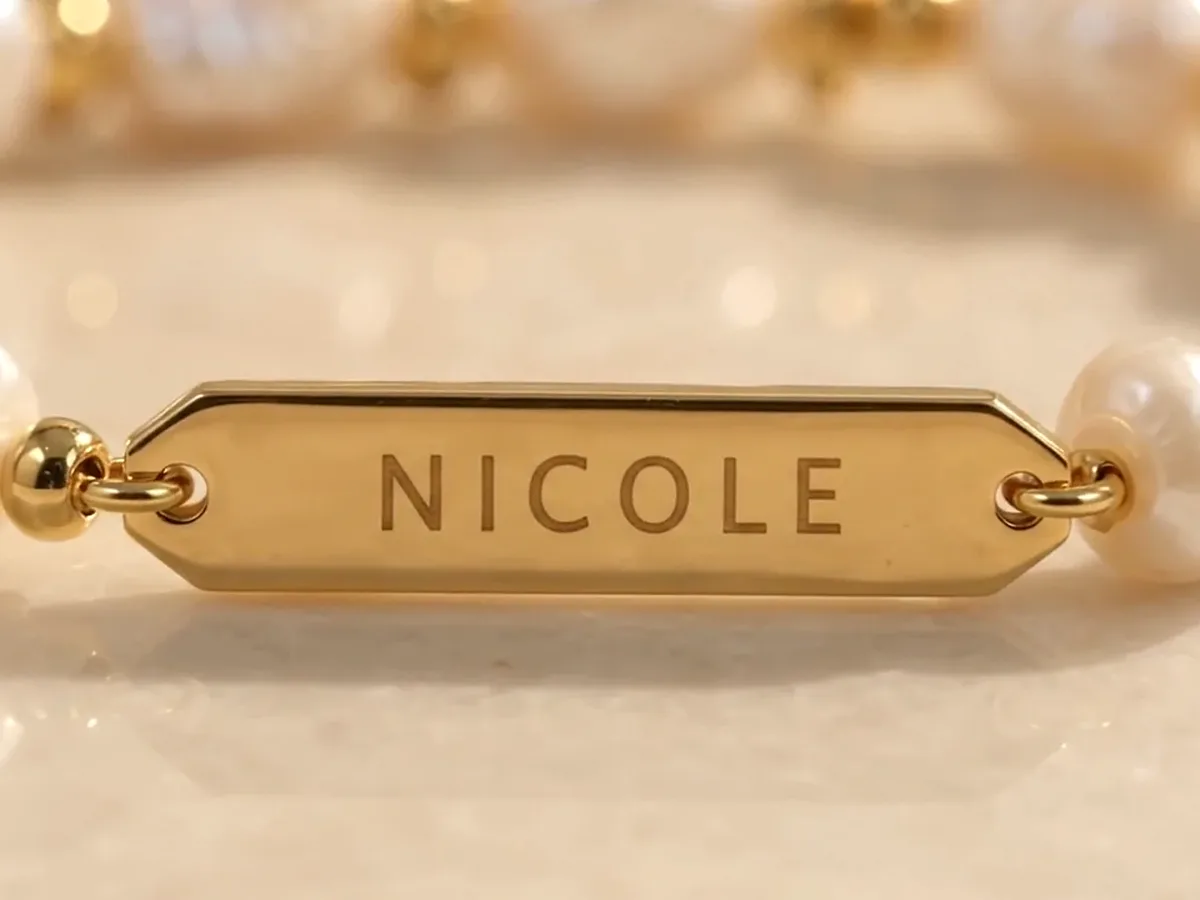
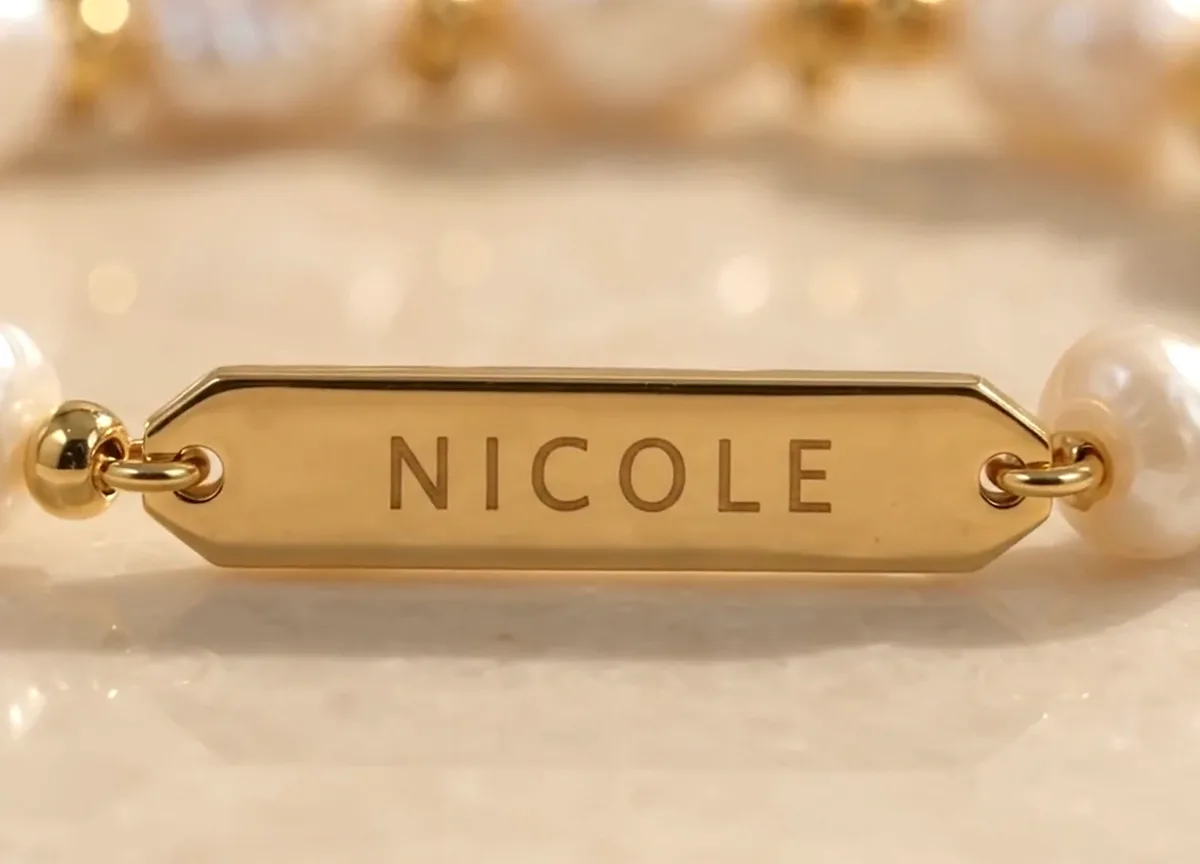
Update brand gateway to v1.4
- Personalised card shows the engraved name bar close-up by default
- Phone card frames use 4:3 so both Curated earrings stay whole
- Shorter Personalised, Curated and About copy
- Remove the unused full-bracelet card images and push-in script

diff --git a/styles.css b/styles.css
@@ -97,24 +97,20 @@ h1 { margin-top: 16px; font: 500 var(--h1)/.98 var(--serif); letter-spacing: .01
 .card-grid { display: grid; grid-template-columns: repeat(2, minmax(0, 1fr)); gap: clamp(14px, 1.6vw, 22px); }
 .card { position: relative; display: grid; grid-template-columns: 54% 1fr; min-height: clamp(240px, 19vw, 300px); background: var(--panel); border: 1px solid var(--gold-line); border-radius: 18px; overflow: hidden; transition: transform .6s var(--ease); }
 .card-img { position: relative; overflow: hidden; -webkit-mask-image: linear-gradient(to right, #000 80%, transparent 100%); mask-image: linear-gradient(to right, #000 80%, transparent 100%); }
-.card-img-stone { background: #f0e4d3; }
-.card-img-stone img { object-fit: contain; object-position: 50% 100%; -webkit-mask-image: linear-gradient(to bottom, transparent 0, #000 16%); mask-image: linear-gradient(to bottom, transparent 0, #000 16%); }
+.card-img-detail { background: #f0e4d3; }
 .card-img img { position: absolute; inset: 0; width: 100%; height: 100%; object-fit: cover; transition: transform 1s var(--ease); }
+/* Keep the engraved bar centred and the lower earring whole whatever the frame shape. */
+.card-img-detail img { object-position: 50% 52%; }
+.card-img-curated img { object-position: 50% 62%; }
 .card-body { display: flex; flex-direction: column; align-items: flex-start; justify-content: center; padding: clamp(18px, 2vw, 28px) clamp(18px, 2.2vw, 30px) clamp(18px, 2vw, 28px) 8px; }
 .card h3 { font: italic 500 clamp(1.7rem, 2.3vw, 2.4rem)/1.08 var(--serif); white-space: nowrap; }
 .card-sub { margin-top: 6px; font: italic 500 clamp(1.05rem, 1.3vw, 1.2rem)/1.25 var(--serif); }
 .card-text { margin-top: 10px; font-size: .88rem; line-height: 1.55; }
 .card-link { display: inline-flex; align-items: center; gap: 16px; min-height: 40px; margin-top: 12px; border-bottom: 1px solid currentColor; font-size: .95rem; font-weight: 500; }
 .card-link::after { content: ""; position: absolute; inset: 0; }
-/* Personalised card: the whole bracelet first, then a slow push-in to the engraved name bar. */
-.card-img .card-detail { opacity: 0; transform: scale(1.08); -webkit-mask-image: none; mask-image: none; transition: opacity 1s var(--ease), transform 1.8s var(--ease); }
-.card.is-detail .card-img .card-detail, .card:focus-within .card-img .card-detail { opacity: 1; transform: none; }
-.card.is-detail .card-img-stone img:first-child, .card:focus-within .card-img-stone img:first-child { transform: scale(1.14); transition-duration: 1.8s; }
 @media (hover: hover) {
   .card:hover { transform: translateY(-3px); }
   .card:hover .card-img img { transform: scale(1.04); }
-  .card:hover .card-img .card-detail { opacity: 1; transform: none; }
-  .card:hover .card-img-stone img:first-child { transform: scale(1.14); transition-duration: 1.8s; }
   .card:hover .arrow { transform: translateX(4px); }
 }
 
@@ -198,7 +194,7 @@ h1 { margin-top: 16px; font: 500 var(--h1)/.98 var(--serif); letter-spacing: .01
   .eyebrow::before, .eyebrow::after { margin-inline: .5em; }
   :root { --h1: clamp(2.2rem, 11.4vw, 3.6rem); }
   .card { grid-template-columns: minmax(0, 1fr); }
-  .card-img { aspect-ratio: 16 / 10; -webkit-mask-image: none; mask-image: none; }
+  .card-img { aspect-ratio: 4 / 3; -webkit-mask-image: none; mask-image: none; }
   .card-body { padding: 18px 22px 22px; }
   .card h3 { white-space: normal; }
   .values li { display: grid; grid-template-columns: 32px 1fr; column-gap: 16px; padding: 16px 0; text-align: left; }
@@ -225,5 +221,4 @@ h1 { margin-top: 16px; font: 500 var(--h1)/.98 var(--serif); letter-spacing: .01
   *, *::before, *::after { animation: none !important; transition: none !important; }
   .js [data-reveal] { opacity: 1; }
   .card:hover, .card:hover .card-img img { transform: none !important; }
-  .card-img .card-detail { opacity: 1; transform: none; }
 }

diff --git a/index.html b/index.html
@@ -101,20 +101,16 @@
     <h2 class="sr-only" id="collections-title">Choose a collection</h2>
     <div class="card-grid">
       <article class="card">
-        <div class="card-img card-img-stone" data-reveal>
-          <img src="assets/img/personalised-card-800.webp"
-               srcset="assets/img/personalised-card-800.webp 800w, assets/img/personalised-card-1200.webp 1200w"
-               sizes="(max-width: 700px) 100vw, 30vw" width="1200" height="900" loading="lazy" decoding="async"
-               alt="Pearl-style name bracelet engraved NICOLE on a cream stone">
-          <img class="card-detail" src="assets/img/personalised-detail-800.webp"
+        <div class="card-img card-img-detail" data-reveal>
+          <img src="assets/img/personalised-detail-800.webp"
                srcset="assets/img/personalised-detail-800.webp 800w, assets/img/personalised-detail-1200.webp 1200w"
-               sizes="(max-width: 700px) 100vw, 30vw" width="1200" height="900" loading="lazy" decoding="async"
-               alt="Close-up of the gold-tone name bar engraved NICOLE">
+               sizes="(max-width: 700px) 100vw, 30vw" width="1200" height="864" loading="lazy" decoding="async"
+               alt="Close-up of a gold-tone name bar engraved NICOLE on a pearl-style bracelet">
         </div>
         <div class="card-body">
           <h3>JNL Personalised</h3>
           <p class="card-sub">Made personal, just for you.</p>
-          <p class="card-text">Name bracelets and pieces personalised with your chosen name or special detail.</p>
+          <p class="card-text">Choose a name or a meaningful detail to make it yours.</p>
           <a class="card-link" href="https://jnlstudio.github.io/JNLPersonalised/">Explore Personalised
             <svg class="arrow" viewBox="0 0 20 20" aria-hidden="true"><path d="M3 10h14M12 5l5 5-5 5"/></svg>
           </a>
@@ -122,7 +118,7 @@
       </article>
 
       <article class="card">
-        <div class="card-img" data-reveal>
+        <div class="card-img card-img-curated" data-reveal>
           <img src="assets/img/curated-800.webp"
                srcset="assets/img/curated-800.webp 800w, assets/img/curated-1200.webp 1200w"
                sizes="(max-width: 700px) 100vw, 30vw" width="1200" height="960" loading="lazy" decoding="async"
@@ -131,7 +127,7 @@
         <div class="card-body">
           <h3>JNL Curated</h3>
           <p class="card-sub">Beautiful pieces, thoughtfully selected.</p>
-          <p class="card-text">Explore a collection of selected earrings, necklaces and everyday jewellery accessories.</p>
+          <p class="card-text">Earrings, necklaces and accessories for everyday wear.</p>
           <a class="card-link" href="https://jnlstudio.github.io/JNLCurated/">Explore Curated
             <svg class="arrow" viewBox="0 0 20 20" aria-hidden="true"><path d="M3 10h14M12 5l5 5-5 5"/></svg>
           </a>
@@ -143,7 +139,7 @@
   <section class="about" id="about" aria-labelledby="about-title">
     <div class="about-copy">
       <h2 id="about-title">About JNL Studio</h2>
-      <p>JNL Studio is a small UK jewellery studio. We believe the little details make every piece special.</p>
+      <p>JNL Studio is a small, independent jewellery studio. We believe the little details make every piece special.</p>
     </div>
 
     <ul class="values">

diff --git a/main.js b/main.js
@@ -45,22 +45,5 @@
     items.forEach(function (el) { el.classList.add('in'); });
   }
 
-  /* Touch screens have no hover: push in to the engraved name once the card is well in view. */
-  var nameCard = document.querySelector('.card-img-stone');
-  if (nameCard && 'IntersectionObserver' in window && !window.matchMedia('(hover: hover)').matches) {
-    var card = nameCard.closest('.card');
-    var timer;
-    var watch = new IntersectionObserver(function (entries) {
-      entries.forEach(function (entry) {
-        if (entry.isIntersecting) {
-          timer = setTimeout(function () { card.classList.add('is-detail'); watch.disconnect(); }, 700);
-        } else {
-          clearTimeout(timer);
-        }
-      });
-    }, { threshold: 0.6 });
-    watch.observe(nameCard);
-  }
-
   document.getElementById('year').textContent = new Date().getFullYear();
 })();
